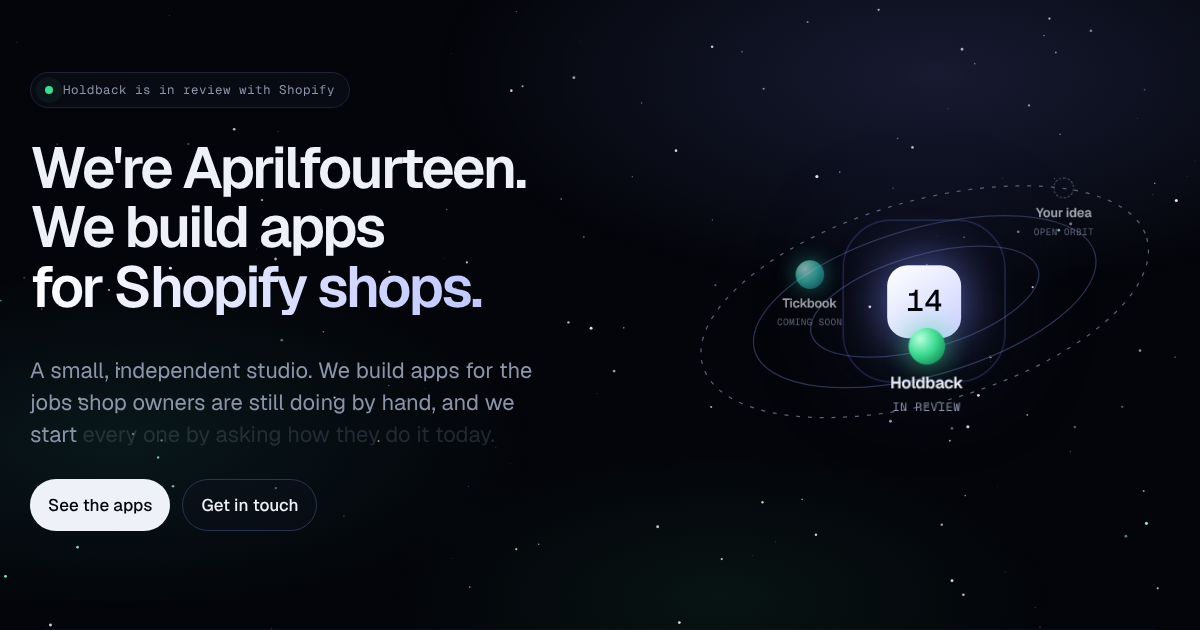
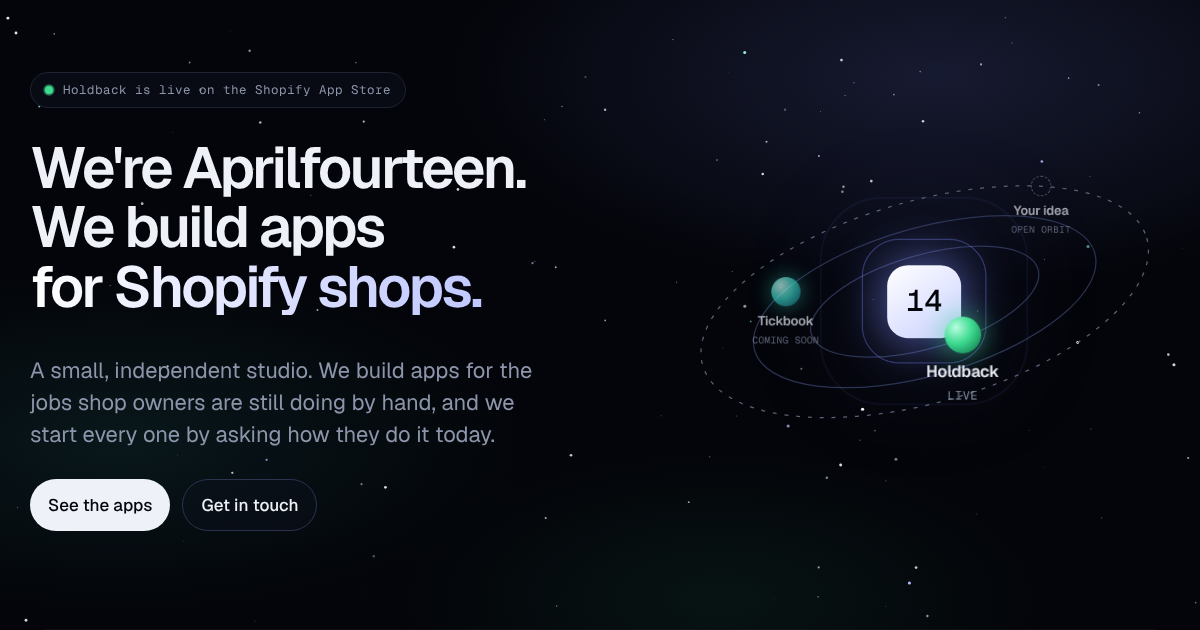
Holdback is live on the Shopify App Store: hero line, orbit label, panel tag, App Store button, guide line, share image
Claude-Session: https://claude.ai/code/session_014E74hTyNnYmSzGRNCiXFrV

diff --git a/index.html b/index.html
@@ -373,7 +373,7 @@ header,main,footer{transition:opacity 1.1s var(--ease)}
   <div class="wrap">
     <div class="hero">
       <div>
-        <div class="now mono"><span class="dot" aria-hidden="true"></span>Holdback is in review with Shopify</div>
+        <div class="now mono"><span class="dot" aria-hidden="true"></span>Holdback is live on the Shopify App Store</div>
         <h1>
           <span class="ln"><span>We're Aprilfourteen.</span></span>
           <span class="ln"><span>We build apps</span></span>
@@ -395,7 +395,7 @@ header,main,footer{transition:opacity 1.1s var(--ease)}
           </g>
         </svg>
         <div class="core" aria-hidden="true">14</div>
-        <a class="planet hb" href="#holdback" data-rx="24" data-ry="9.5" data-speed="0.26" data-phase="0.6"><i></i><span><b>Holdback</b><small class="mono">IN REVIEW</small></span></a>
+        <a class="planet hb" href="#holdback" data-rx="24" data-ry="9.5" data-speed="0.26" data-phase="0.6"><i></i><span><b>Holdback</b><small class="mono">LIVE</small></span></a>
         <a class="planet tb" href="#tickbook" data-rx="36" data-ry="15" data-speed="0.17" data-phase="3.4"><i></i><span><b>Tickbook</b><small class="mono">COMING SOON</small></span></a>
         <a class="planet idea" href="#contact" data-rx="47" data-ry="20.5" data-speed="0.1" data-phase="5.1"><i></i><span><b>Your idea</b><small class="mono">OPEN ORBIT</small></span></a>
       </div>
@@ -417,7 +417,7 @@ header,main,footer{transition:opacity 1.1s var(--ease)}
       <div class="apps">
         <article class="app hb rv" id="holdback">
           <div class="body">
-            <span class="tag mono"><i></i>In review with Shopify</span>
+            <span class="tag mono"><i></i>Live on the Shopify App Store</span>
             <h3>Holdback</h3>
             <p>Deposits, late fees and damage for hire shops on Shopify. Your customer agrees the terms at checkout, and is told why whenever money is kept.</p>
             <ul>
@@ -425,7 +425,7 @@ header,main,footer{transition:opacity 1.1s var(--ease)}
               <li>Late fees at the press of a button</li>
               <li>Never more than the deposit your customer agreed to</li>
             </ul>
-            <div class="foot"><a class="btn solid" href="https://holdback.co.uk" target="_blank" rel="noopener">Visit holdback.co.uk ↗</a><span class="btn store off" data-store="holdback">Shopify App Store, after review</span></div>
+            <div class="foot"><a class="btn solid" href="https://holdback.co.uk" target="_blank" rel="noopener">Visit holdback.co.uk ↗</a><a class="btn store" href="https://apps.shopify.com/april" target="_blank" rel="noopener">View on the Shopify App Store ↗</a></div>
           </div>
           <div class="stage" aria-hidden="true">
             <div class="card" id="hbScene">
@@ -647,7 +647,7 @@ header,main,footer{transition:opacity 1.1s var(--ease)}
 
   /* ---------- Fourteen, the ship: parks bottom corner, swaps sides per section, says a line ---------- */
   var buddy=document.getElementById('buddy'), ship=document.getElementById('ship'), say=document.getElementById('say');
-  var stops=[['#holdback','R',"Holdback. Deposits and late fees for hire shops."],['#tickbook','L',"Tickbook. Trade accounts, coming soon."],['#approach','R',"Four stages. We don't skip any of them."],['#about','L',"That's Olly. He founded the place."],['#contact','R',"Go on, say hello. We always reply."],['#apps','L',"Two apps in orbit so far."],['.hero','R',"I'm Fourteen. I'll show you round."]]
+  var stops=[['#holdback','R',"Holdback. Live now, for hire shops on Shopify."],['#tickbook','L',"Tickbook. Trade accounts, coming soon."],['#approach','R',"Four stages. We don't skip any of them."],['#about','L',"That's Olly. He founded the place."],['#contact','R',"Go on, say hello. We always reply."],['#apps','L',"Two apps in orbit so far."],['.hero','R',"I'm Fourteen. I'll show you round."]]
     .map(function(s){return {el:document.querySelector(s[0]),side:s[1],line:s[2]}});
   var bx=window.innerWidth-90, by=window.innerHeight-120, cur=null, sayT=null, hideT=null;
   function speak(line){
@@ -740,7 +740,7 @@ header,main,footer{transition:opacity 1.1s var(--ease)}
   /* ---------- Shopify App Store links ----------
      When an app's listing is public, paste its address between the quotes below.
      The dashed placeholder on that app's panel then becomes a live button. */
-  var STORE_LINKS={ holdback:'', tickbook:'' };
+  var STORE_LINKS={ holdback:'https://apps.shopify.com/april', tickbook:'' };
   [].forEach.call(document.querySelectorAll('[data-store]'),function(el){
     var url=STORE_LINKS[el.dataset.store]; if(!url)return;
     var a=document.createElement('a'); a.className='btn store'; a.href=url; a.target='_blank'; a.rel='noopener'; a.textContent='View on the Shopify App Store ↗';
